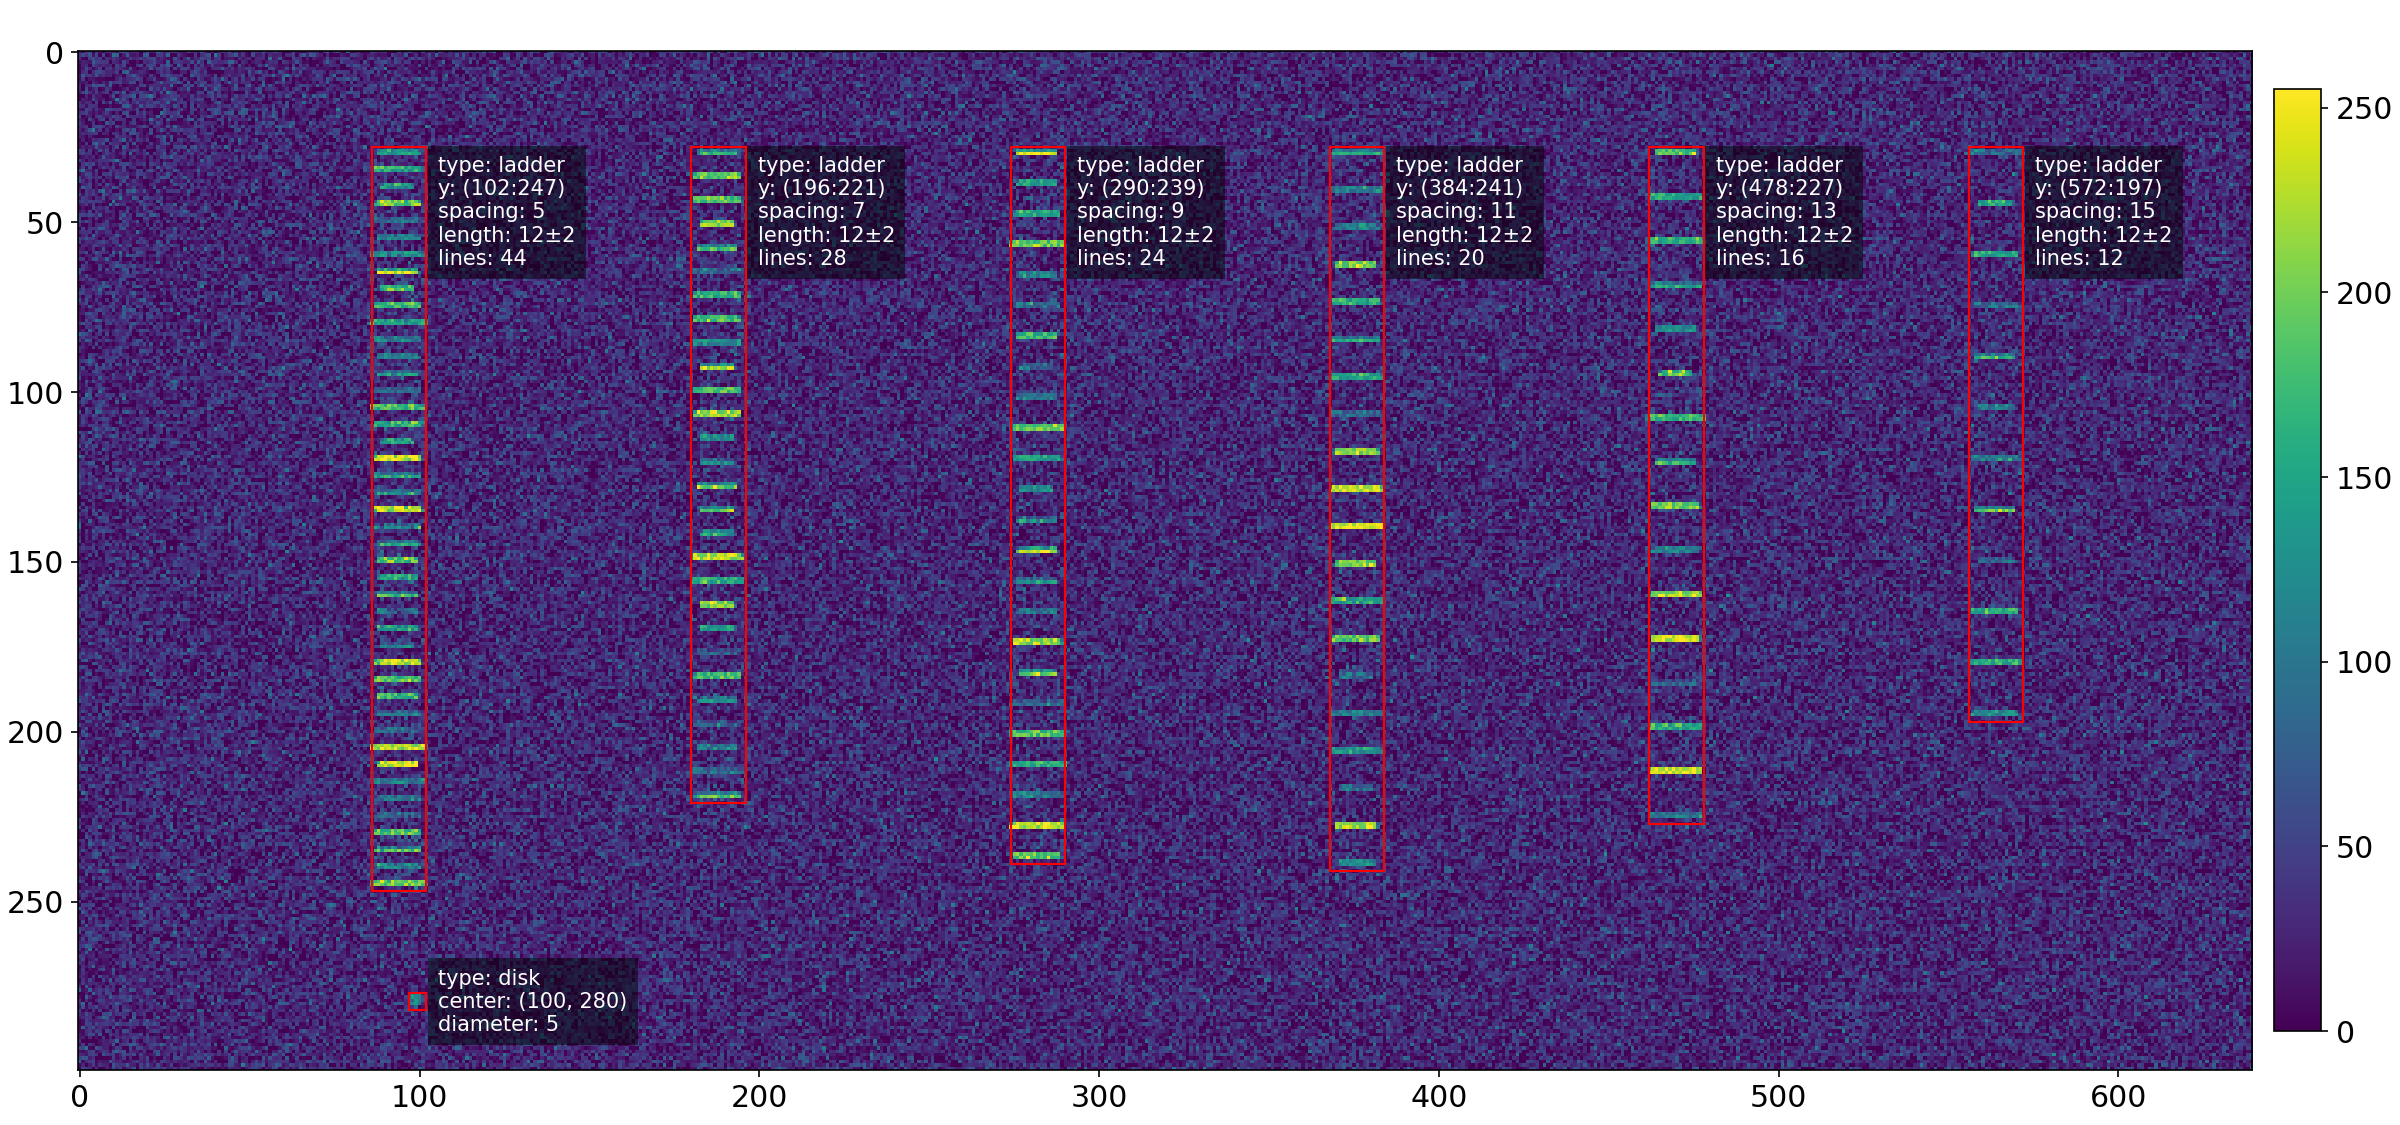
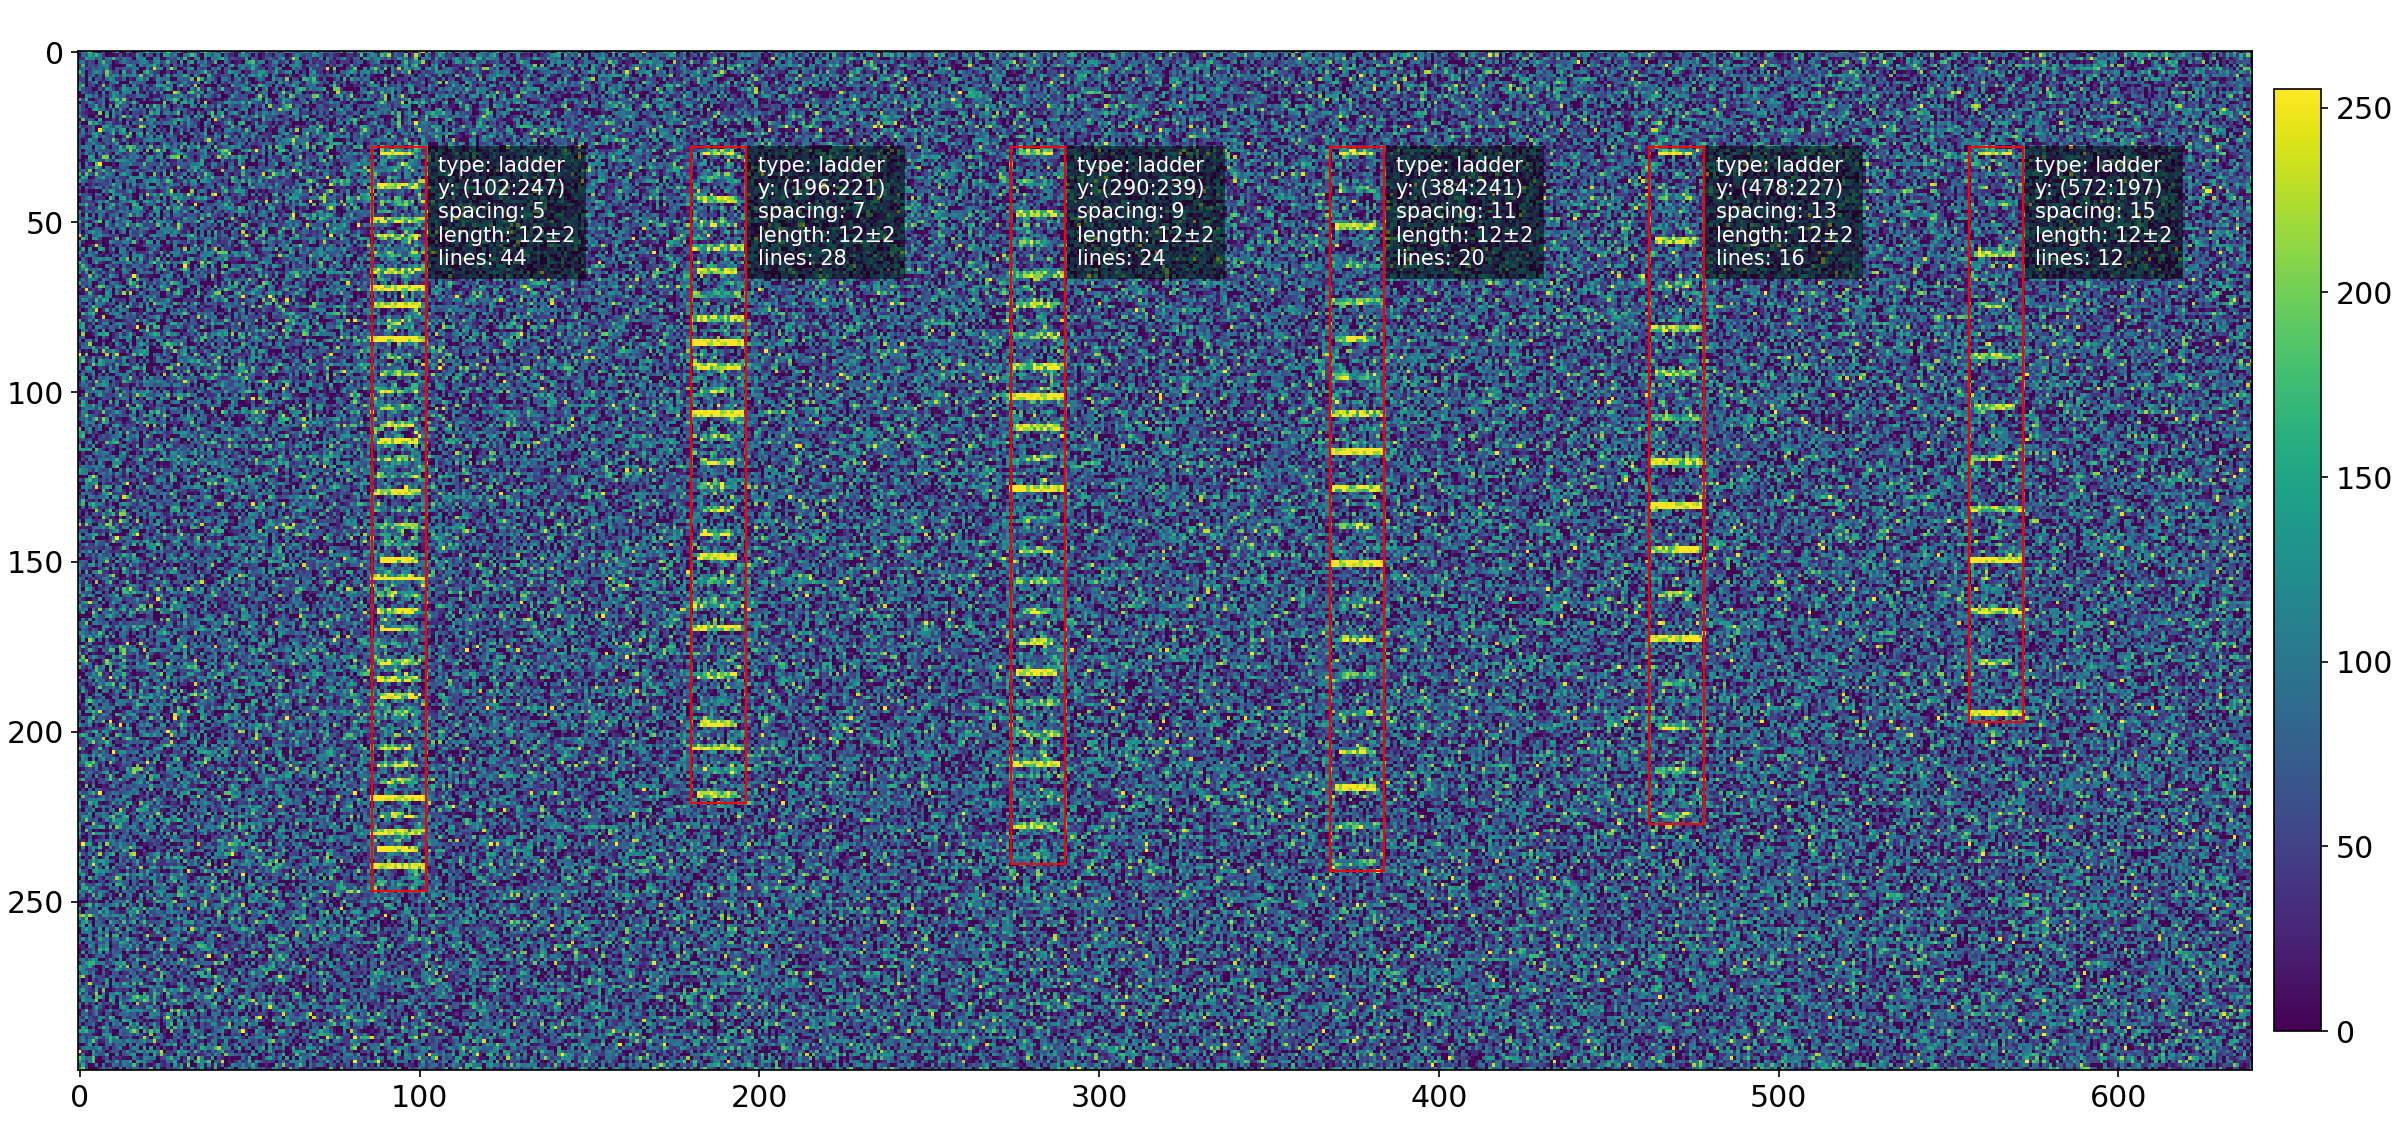
Tests avec différents niveaux de bruit.

diff --git a/main.py b/main.py
@@ -4,6 +4,7 @@ import sys
 import time
 import matplotlib.pyplot as plt
 import os
+import numpy as np
 os.environ['TF_CPP_MIN_LOG_LEVEL'] = '2'
 
 
@@ -34,7 +35,6 @@ def main():
         train.add_ladder(starting_pt=[350, 30],
                         spacing=13, length=12,
                         l_var=1, lines=18)
-        train.add_disk(center=[200, 200], radius=3, intensity=100)
         train.plot_label()
         plt.savefig(img_dir + 'train')
         var_time = timing('train', var_time)
@@ -64,29 +64,31 @@ def main():
         # ds_train, ds_val = crops_to_dataset(crops, labels, balanced=False, split=True)
     if sys.argv[1] == 'test':
         # Image test
-        test = imsy.Image(300, noise_lvl=0.2)
-        # Premier objet
-        spacings = [5, 7, 9, 11, 13, 15]
-        for spacing in spacings:
-            pt = [47*(spacing-3), 30]
-            test.add_ladder(starting_pt=pt,
-                            spacing=spacing, length=12,
-                            l_var=2, lines=4*(55//spacing))
-
-        test.add_disk([100, 280], 5, 0.3)
-        test.plot_label()
-        plt.savefig(img_dir+'test')
-        var_time = timing('test', var_time)
-        img_shape = (window_size, window_size, 1)
-        pad_h = 16
-        pad_v = 16
-        crops, labels, _, segmentation_crops = test.sliding_window(window_size, pad_h, pad_v, threshold)
-        ds_test = ds.crops_to_dataset(crops, labels[:, :, 0], shuffle=False)
-        classif_model = ds.classification_model(img_shape)
-        classif_model.load_weights('weights/classif/classif')
-        test.calssification_predict(classif_model, ds_test, labels[:, :, 0].shape, threshold)
-        var_time = timing('classification prediction', var_time)
-        plt.savefig(img_dir+'test_classif')
+        seed = 500
+        bruit_min, bruit_max = float(sys.argv[3]), float(sys.argv[4])
+        range = np.arange(bruit_min, bruit_max+0.1, 0.1).round(1)
+        for noise_lvl in range:
+            test = imsy.Image(300, noise_lvl=noise_lvl, seed=seed)
+            # Premier objet
+            spacings = [5, 7, 9, 11, 13, 15]
+            for spacing in spacings:
+                pt = [47*(spacing-3), 30]
+                test.add_ladder(starting_pt=pt,
+                                spacing=spacing, length=12,
+                                l_var=2, lines=4*(55//spacing), seed=seed)
+            test.plot_label()
+            plt.savefig(img_dir+'test')
+            var_time = timing('test', var_time)
+            img_shape = (window_size, window_size, 1)
+            pad_h = 16
+            pad_v = 16
+            crops, labels, _, segmentation_crops = test.sliding_window(window_size, pad_h, pad_v, threshold)
+            ds_test = ds.crops_to_dataset(crops, labels[:, :, 0], shuffle=False)
+            classif_model = ds.classification_model(img_shape)
+            classif_model.load_weights('weights/classif/classif')
+            test.calssification_predict(classif_model, ds_test, labels[:, :, 0].shape, threshold)
+            var_time = timing('classification prediction for noise level '+str(noise_lvl), var_time)
+            plt.savefig(img_dir+'test_classif_'+str(noise_lvl).replace('.', '_'))
 
 
 if __name__ == "__main__":

diff --git a/ImageSynthetique.py b/ImageSynthetique.py
@@ -27,17 +27,17 @@ class Image:
         seed (int): optional seed that determines random state
     """
 
-    def __init__(self, height, width=640, noise_lvl=0.3, seed=None):
+    def __init__(self, height, width=640, noise_lvl=0.3, seed=None, classes=1):
         """Initialize Image object with height and width."""
         # super(Image, self).__init__()
         self.height = height
         self.width = width
-        self.create_image(noise_lvl, seed)
+        self.create_image(noise_lvl, seed, classes)
         self.objects = []
         self.lines = []
         self.predicted = {}
 
-    def create_image(self, noise_lvl, seed, classes=2):
+    def create_image(self, noise_lvl, seed, classes):
         """Generate canvas for image.
 
         params:
